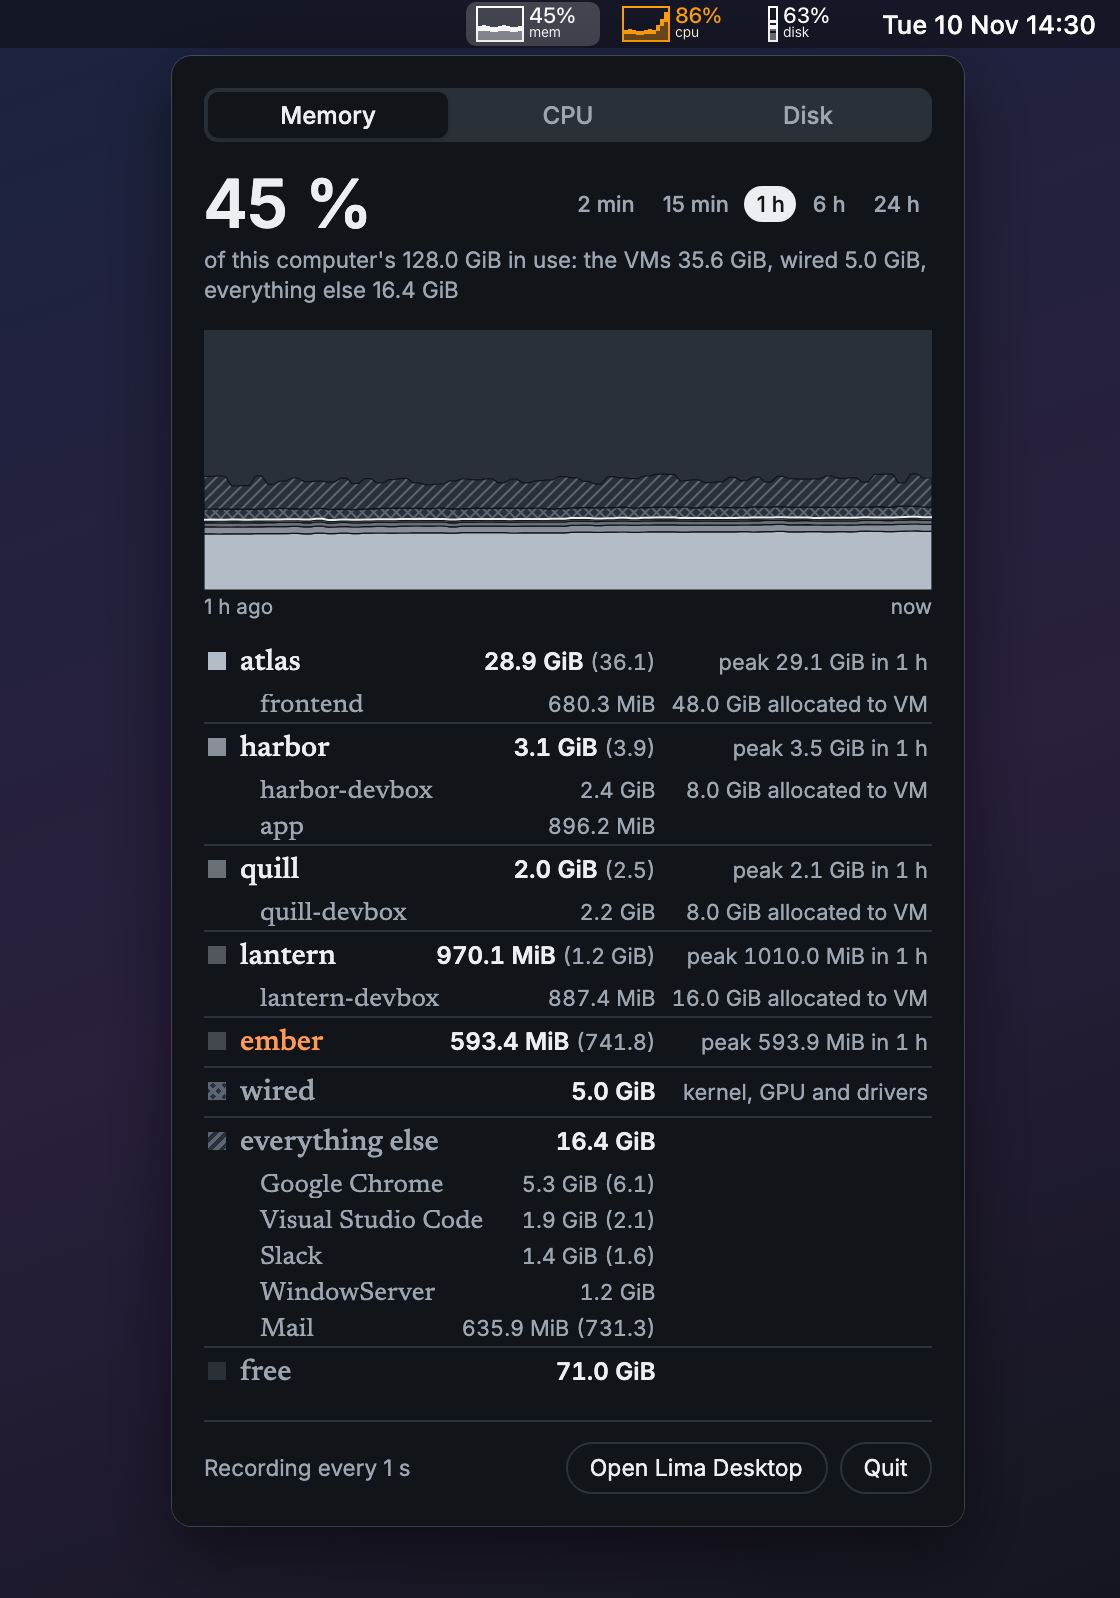
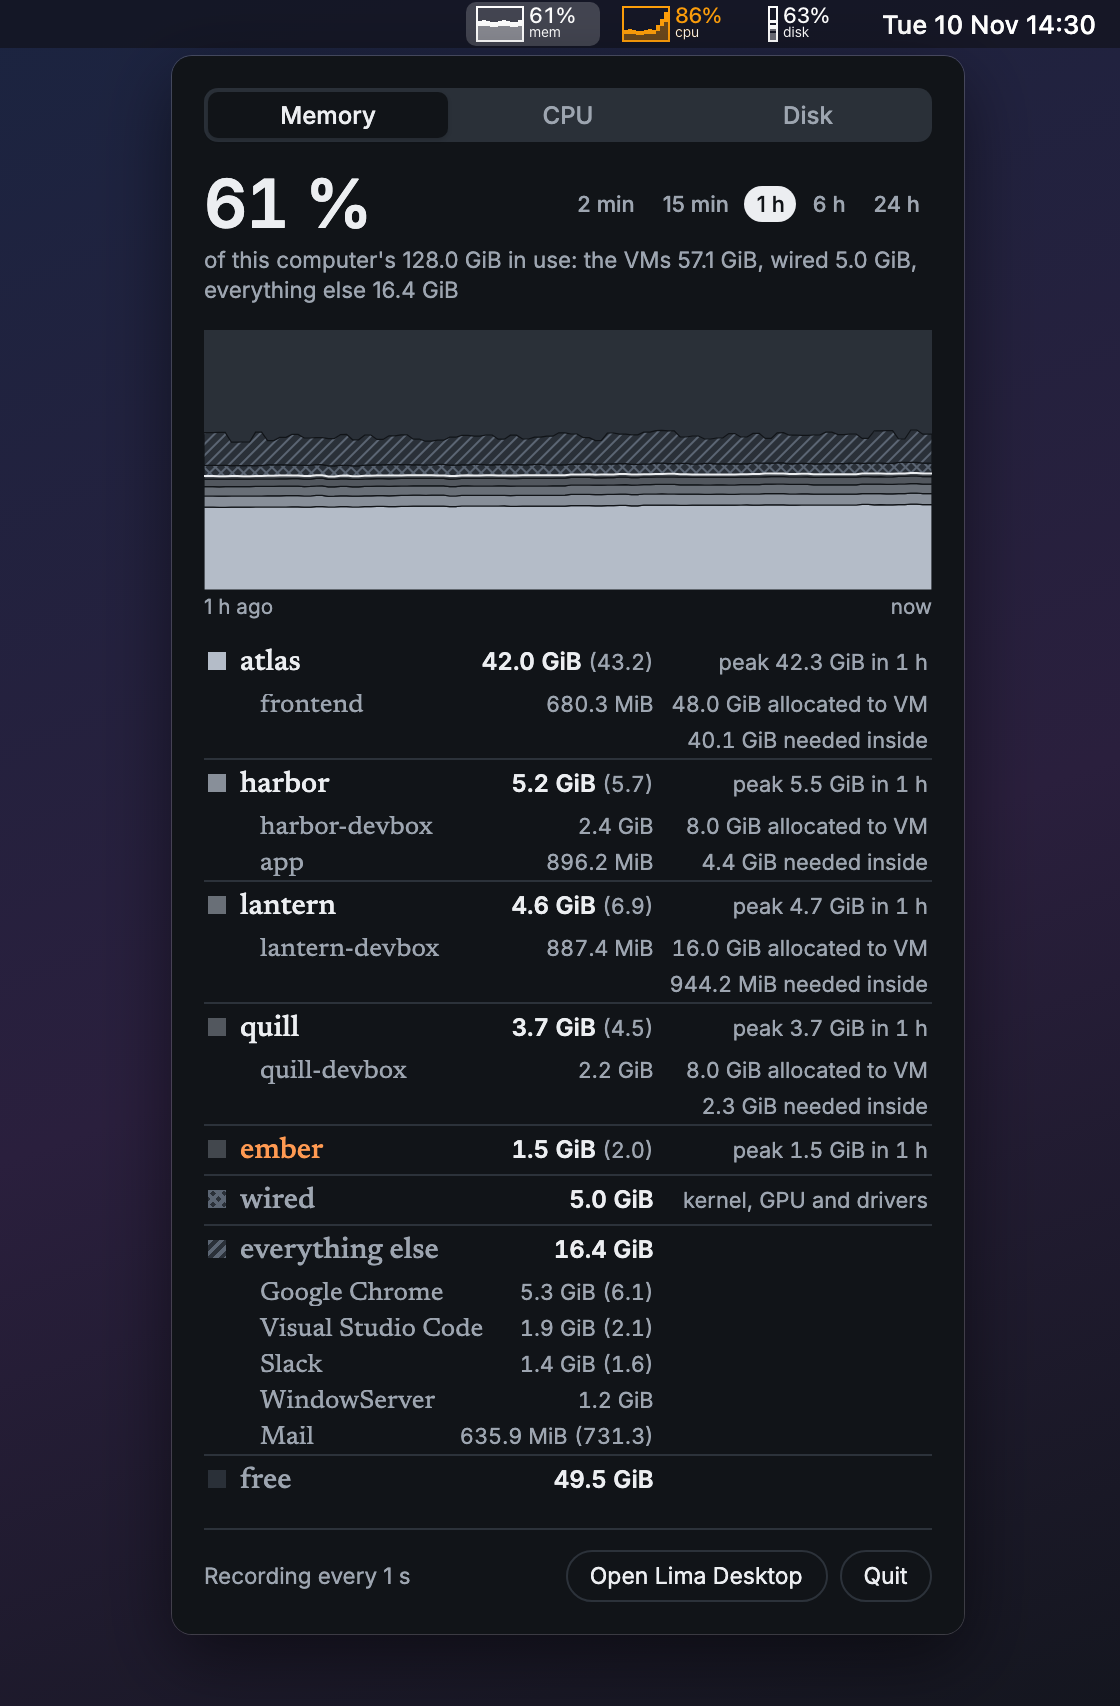
README: the menu bar pictures redrawn for 0.6.0, the item at the popover's 61 %
They still showed 0.5.0's popover, without 'needed inside'. The fake backend now has the
host hold what each guest needs and more, so the popover is at 61 %; the item's own data
(menubar_readme) and the alt text follow it.

diff --git a/src-tauri/src/menubar.rs b/src-tauri/src/menubar.rs
@@ -1697,8 +1697,9 @@ mod tests {
     }
 
     /// The README's menu bar (`just readme-menubar`, tools/menubar-readme.mjs): Settings' default
-    /// items, memory at the popover screenshot's 45 % and CPU past its warning, on a light and a dark
-    /// menu bar, as `{light,dark}-{mem,cpu,disk}.rgba` in `LD_MENUBAR_README`.
+    /// items, memory at the popover screenshot's 61 % (the VMs 57.1 of its 128 GiB) and CPU past its
+    /// warning, on a light and a dark menu bar, as `{light,dark}-{mem,cpu,disk}.rgba` in
+    /// `LD_MENUBAR_README`.
     #[cfg(target_os = "macos")]
     #[test]
     #[ignore]
@@ -1716,8 +1717,8 @@ mod tests {
                 })
                 .collect()
         };
-        let mut mem = history(0.43, 0.27, 0.0);
-        *mem.last_mut().unwrap() = used(0.45, 0.278);
+        let mut mem = history(0.59, 0.43, 0.0);
+        *mem.last_mut().unwrap() = used(0.61, 0.446);
         let chosen = crate::settings::MenuBar::default();
         for (res, h, hot) in
             [(Res::Mem, mem, false), (Res::Cpu, history(0.3, 0.18, 0.55), true), (Res::Disk, history(0.62, 0.35, 0.0), false)]

diff --git a/README.md b/README.md
@@ -49,7 +49,7 @@ Nothing is installed in the guests: the app reads them over Lima's own ssh and t
 **The menu bar**: memory, CPU and disk at a glance, and the popover under each.
 
 <p>
-  <img src="./docs/img/menubar.webp" alt="The menu bar's items for memory (45 %), CPU (86 %, in orange as it's past its warning) and disk (63 %), each a small drawing of its recent use with the VMs' part pale under everything else, and the popover open under memory: the computer's memory in use as a stacked chart of each VM, wired memory and everything else over the last hour, then each VM with its containers and its peak, and the busiest apps outside the VMs" width="380">
+  <img src="./docs/img/menubar.webp" alt="The menu bar's items for memory (61 %), CPU (86 %, in orange as it's past its warning) and disk (63 %), each a small drawing of its recent use with the VMs' part pale under everything else, and the popover open under memory: the computer's memory in use as a stacked chart of each VM, wired memory and everything else over the last hour, then each VM with its containers and its peak, and the busiest apps outside the VMs" width="380">
   <img src="./docs/img/menubar-dark.webp" alt="The same menu bar items and popover on a dark menu bar" width="380">
 </p>
 
